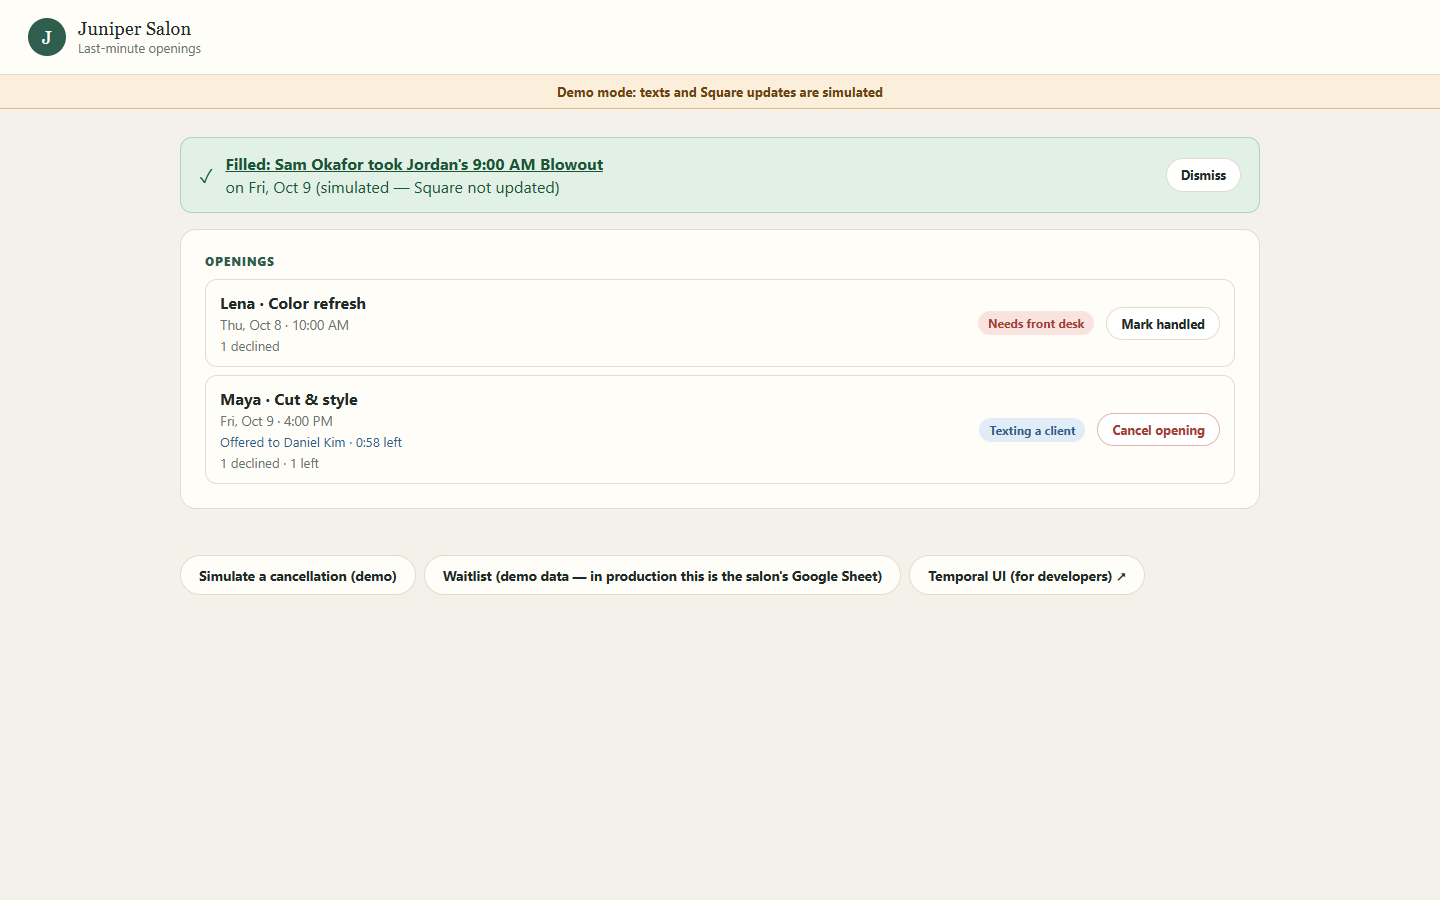
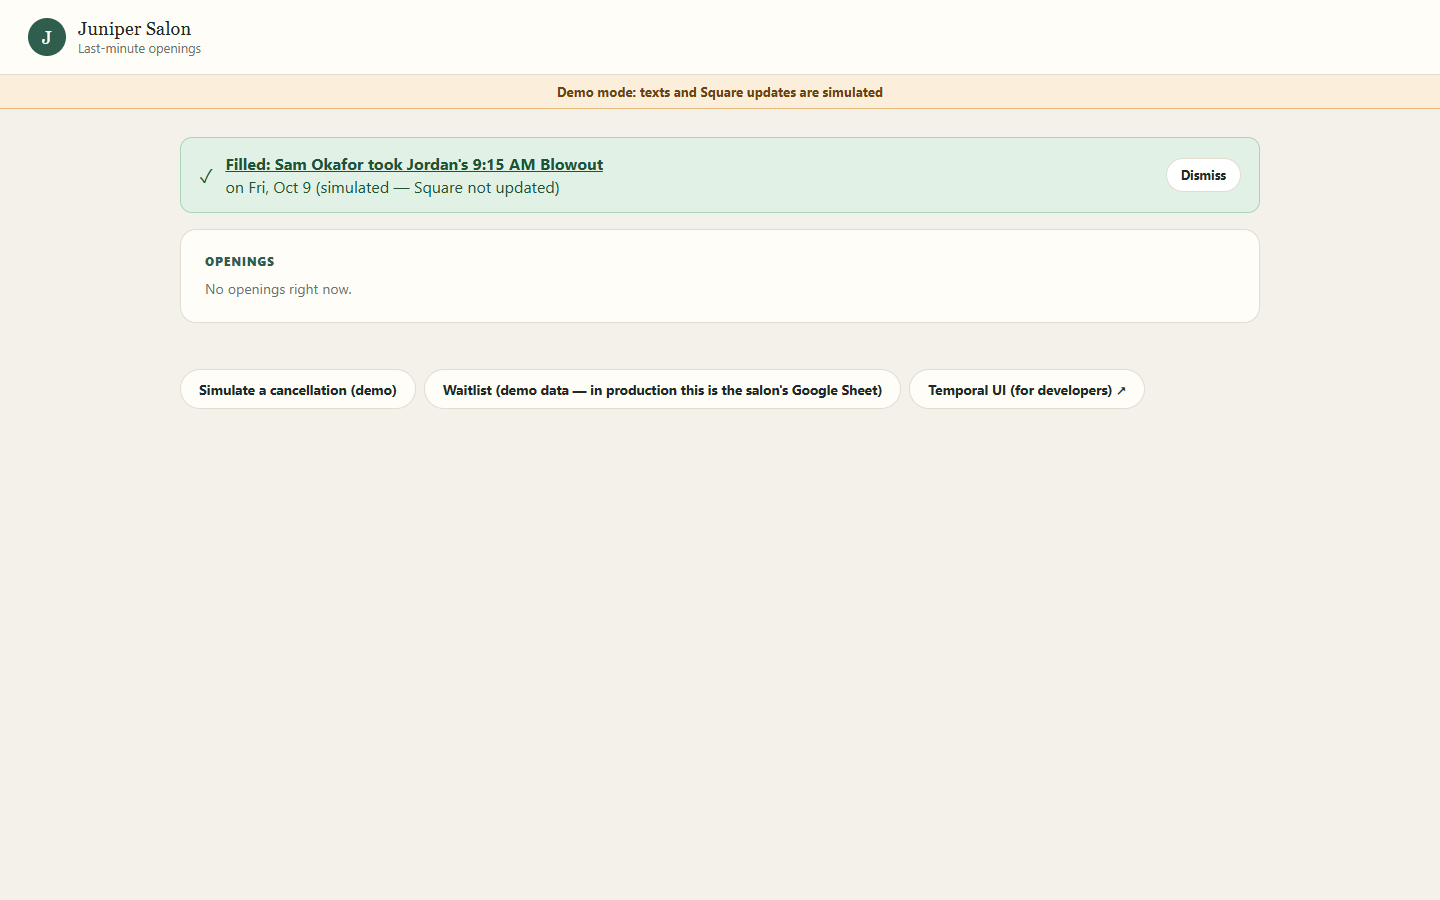
Retake the Filled notice screenshot on its own
03 looked almost the same as 01. It now shows the main page with just a
Filled notice and no openings.

diff --git a/evidence/README.md b/evidence/README.md
@@ -15,12 +15,12 @@ Texts and Square bookings are simulated, as the page says.
 | --- | --- | --- |
 | [`01-openings-active-offer.png`](01-openings-active-offer.png) | Maya · Cut & style, Fri Oct 9, 4:00 PM | **Main page** with an active opening: "Offered to Grace Liu · 0:54 left" and the summary line "1 declined · 1 no reply · 0 left". Also visible: a slot that needs the front desk, and the green "Filled" notice. |
 | [`02-slot-detail-mid-run.png`](02-slot-detail-mid-run.png) | Same slot | **Slot detail mid-run.** Priya *Declined*, Daniel *No reply* (his 60 seconds ran out), Grace *Has the offer* with a countdown. Alongside: the timeline of each step and the simulated texts sent to all three. |
-| [`03-filled-notice.png`](03-filled-notice.png) | Jordan · Blowout, Fri Oct 9, 9:00 AM | **Main page with a "Filled" notice:** "Sam Okafor took Jordan's 9:00 AM Blowout", with a Dismiss button. It stays on every browser until the front desk dismisses it. |
+| [`03-filled-notice.png`](03-filled-notice.png) | Jordan · Blowout, Fri Oct 9, 9:15 AM | **Main page with a "Filled" notice** and nothing else open: "Sam Okafor took Jordan's 9:15 AM Blowout", with a Dismiss button, above "No openings right now". The notice stays on every browser until the front desk dismisses it. Taken after the other test slots were closed, so the notice stands on its own. |
 | [`04-needs-front-desk.png`](04-needs-front-desk.png) | Lena · Color refresh, Thu Oct 8, 10:00 AM | **A slot that needs the front desk.** Rosa, the only match, declined. The page shows the amber "Front desk: this slot needs you" banner, the Unfilled status, the **Mark handled** button, and the front desk's text alert. |
 | [`05-crash-test-temporal-history.png`](05-crash-test-temporal-history.png) | Maya · Cut & style, Mon Oct 12, 1:00 PM | **Crash test, Temporal UI timeline.** Priya's 1-minute reply timer runs. The marked gap on the axis is while the Worker was down. After it, `sendOffer` to Daniel and his own timer show the Workflow carried on. |
 | [`05b-crash-test-event-history.png`](05b-crash-test-event-history.png) | Same slot | **Crash test, full event history** in the Temporal UI, oldest first (walkthrough below). |
 | [`06-crash-test-slot-detail.png`](06-crash-test-slot-detail.png) | Same slot | **Crash test, as the salon sees it.** Priya shows *No reply* and Daniel *Has the offer*. Priya's offer text is missing from "Simulated texts" because the demo outbox lives in Worker memory and was wiped when the Worker was killed. The Workflow's own state was safe in Temporal. |
-| [`07-completed-workflow-event-history.png`](07-completed-workflow-event-history.png) | Jordan · Blowout, Fri Oct 9, 9:00 AM (the slot from 03) | **A completed Workflow** in the Temporal UI: the **COMPLETED** status, start and end times, input and result, and all 49 events from start to finish (walkthrough below). |
+| [`07-completed-workflow-event-history.png`](07-completed-workflow-event-history.png) | Jordan · Blowout, Fri Oct 9, 9:00 AM (the Filled notice in 01) | **A completed Workflow** in the Temporal UI: the **COMPLETED** status, start and end times, input and result, and all 49 events from start to finish (walkthrough below). |
 
 ## The crash test, step by step
 
@@ -45,7 +45,7 @@ Events 31–32 came after the script had finished and stopped the Worker: Daniel
 
 ## Reading the completed Workflow (07)
 
-This is the "Filled" slot from 03, run through to the end.
+This is the slot behind the "Filled" notice in 01, run through to the end.
 
 | Event | Time | What happened |
 | --- | --- | --- |
